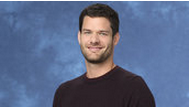
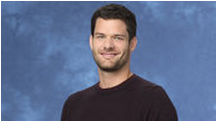
starting bachelorette test4

diff --git a/index.html b/index.html
@@ -714,12 +714,11 @@
 		<div class = "col-md-5">
 	 		<ul id="sortable" class="sortable ui-helper-reset ui-helper-clearfix" style = "width:100%;">
 	  			<li name = "Andrew" class="ui-widget-content ui-corner-tr ui-helper-reset ui-helper-clearfix eliminatedWomen" id = "Andrew">
-	  				<img title="Andrew" src="pics/Andrew.jpg" class="img-responsive">
+	  				<img title="Andrew" src="pics/Andrew.PNG" class="img-responsive">
 	  				<h5  style = "position:relative; bottom:7px">
 	  				  	<a style = "float: left; left:4px" title="View larger image" class="glyphicon glyphicon-zoom-in" onclick="enlargeImage('pics/Andrew.PNG')">
 	  				  	</a>&nbsp&nbsp&nbsp&nbsp&nbsp&nbsp Andrew &nbsp&nbsp&nbsp&nbsp&nbsp&nbsp
 	  				  	<a style = "right:4px" title="View Bio" class="glyphicon glyphicon-book" onclick="showBio('Andrew')"></a></h5>
-	  				  	<h2> <span class="eliminatedText">ELIMINATED</span></h2>
 	  			</li>
 
 	  			<li name = "Allison" class="ui-widget-content ui-corner-tr ui-helper-reset ui-helper-clearfix" id = "Allison">
